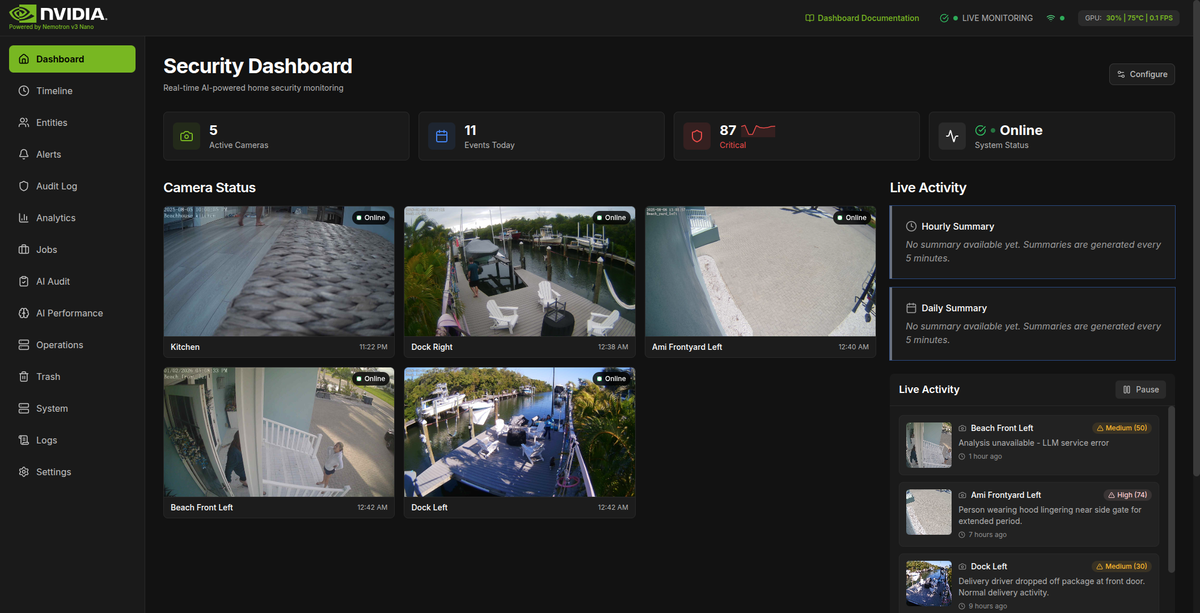
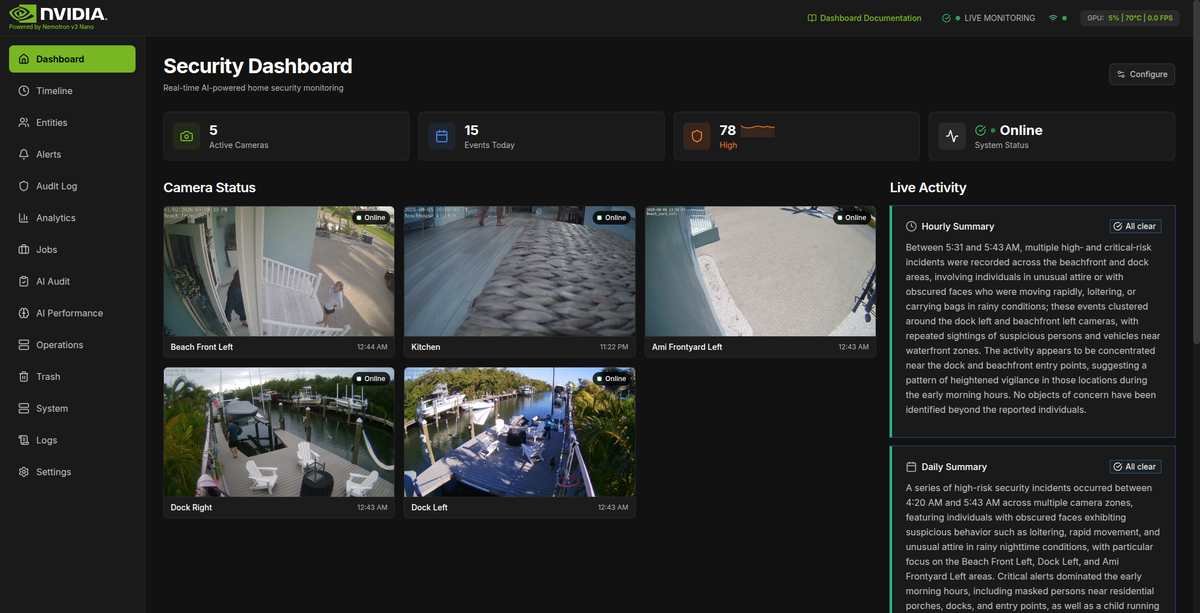
fix: add eager loading to prevent lazy loading error in summary generation
The SummaryGenerator was accessing event.camera without eager loading the
relationship, causing MissingGreenlet errors in async context.

Changes:
- Add selectinload import and eager_load_camera parameter to
  EventRepository.get_in_date_range()
- Update SummaryGenerator._get_high_critical_events() to use eager loading
- Update dashboard screenshot showing working summary cards

diff --git a/backend/repositories/event_repository.py b/backend/repositories/event_repository.py
@@ -16,6 +16,7 @@ from datetime import datetime
 from typing import TYPE_CHECKING
 
 from sqlalchemy import desc, func, select
+from sqlalchemy.orm import selectinload
 
 from backend.models import Event
 from backend.repositories.base import Repository
@@ -125,17 +126,23 @@ class EventRepository(Repository[Event]):
         result = await self.session.execute(stmt)
         return result.scalars().all()
 
-    async def get_in_date_range(self, start: datetime, end: datetime) -> Sequence[Event]:
+    async def get_in_date_range(
+        self, start: datetime, end: datetime, *, eager_load_camera: bool = False
+    ) -> Sequence[Event]:
         """Get events within a date range.
 
         Args:
             start: The start of the date range (inclusive).
             end: The end of the date range (inclusive).
+            eager_load_camera: If True, eager load the camera relationship
+                to avoid lazy loading issues in async context.
 
         Returns:
             A sequence of events where started_at is within the range.
         """
         stmt = select(Event).where(Event.started_at >= start, Event.started_at <= end)
+        if eager_load_camera:
+            stmt = stmt.options(selectinload(Event.camera))
         result = await self.session.execute(stmt)
         return result.scalars().all()
 

diff --git a/backend/services/summary_generator.py b/backend/services/summary_generator.py
@@ -308,8 +308,11 @@ class SummaryGenerator:
         Returns:
             Sequence of Event objects with risk_level 'high' or 'critical'.
         """
-        # Get events in date range
-        all_events = await event_repo.get_in_date_range(window_start, window_end)
+        # Get events in date range with camera relationship eager loaded
+        # (required for _build_event_context to access event.camera without lazy loading)
+        all_events = await event_repo.get_in_date_range(
+            window_start, window_end, eager_load_camera=True
+        )
 
         # Filter to high/critical only
         high_critical_events = [
